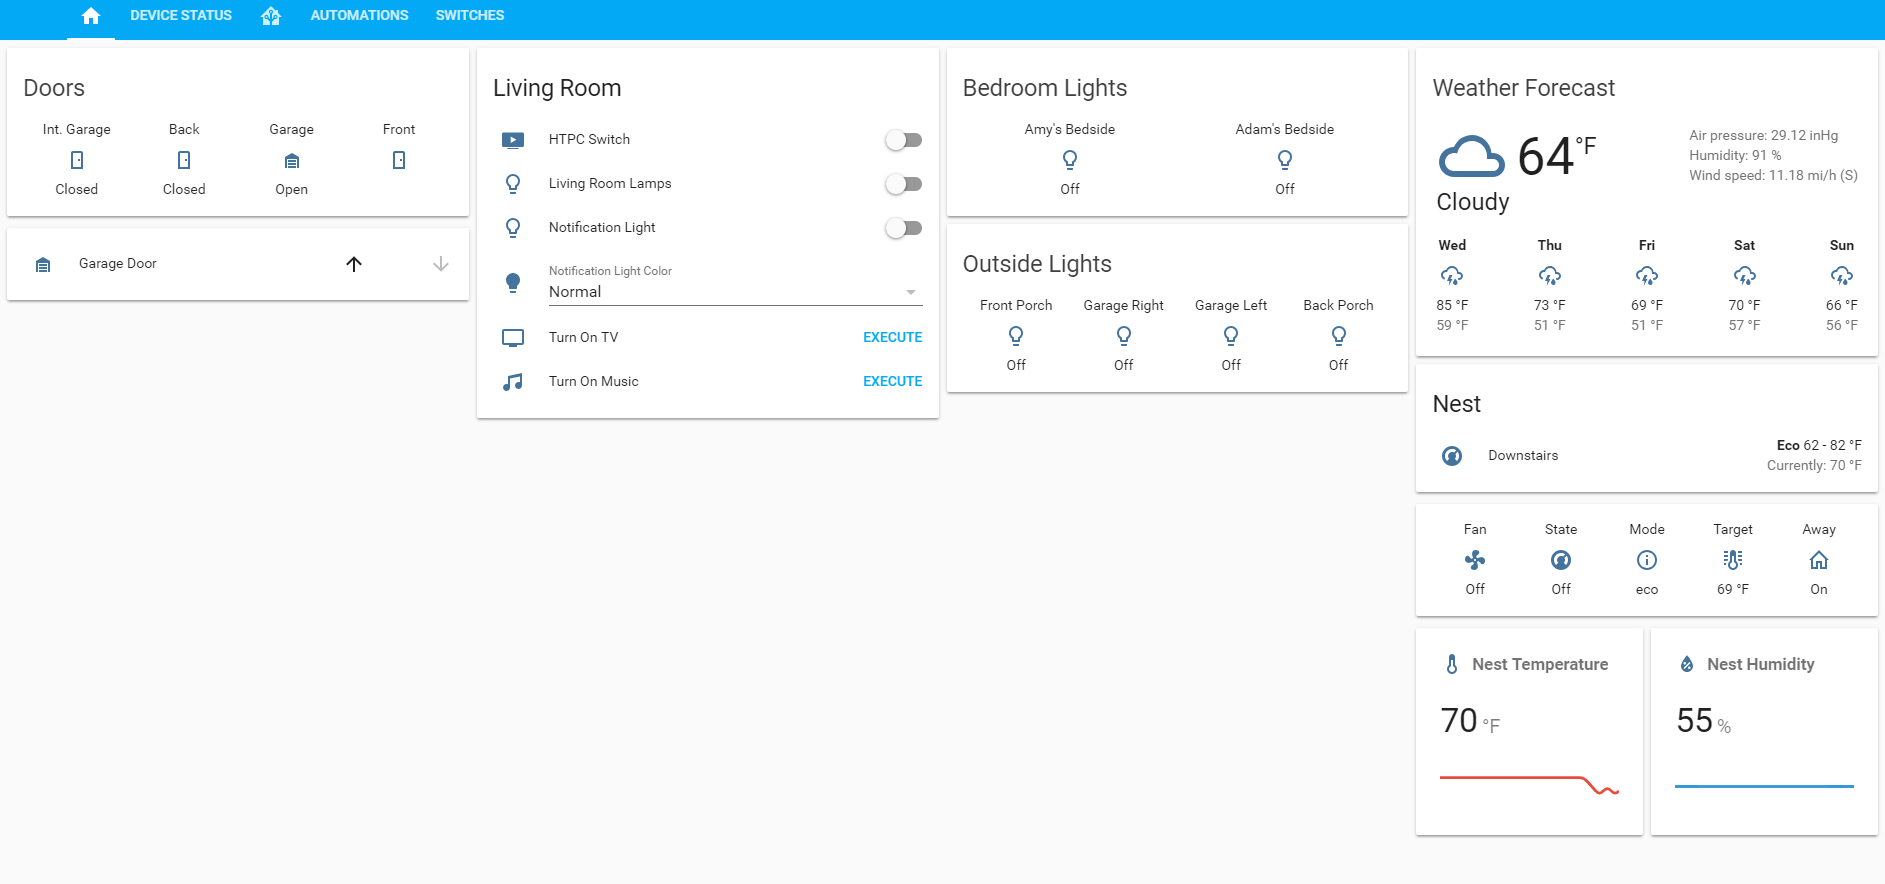
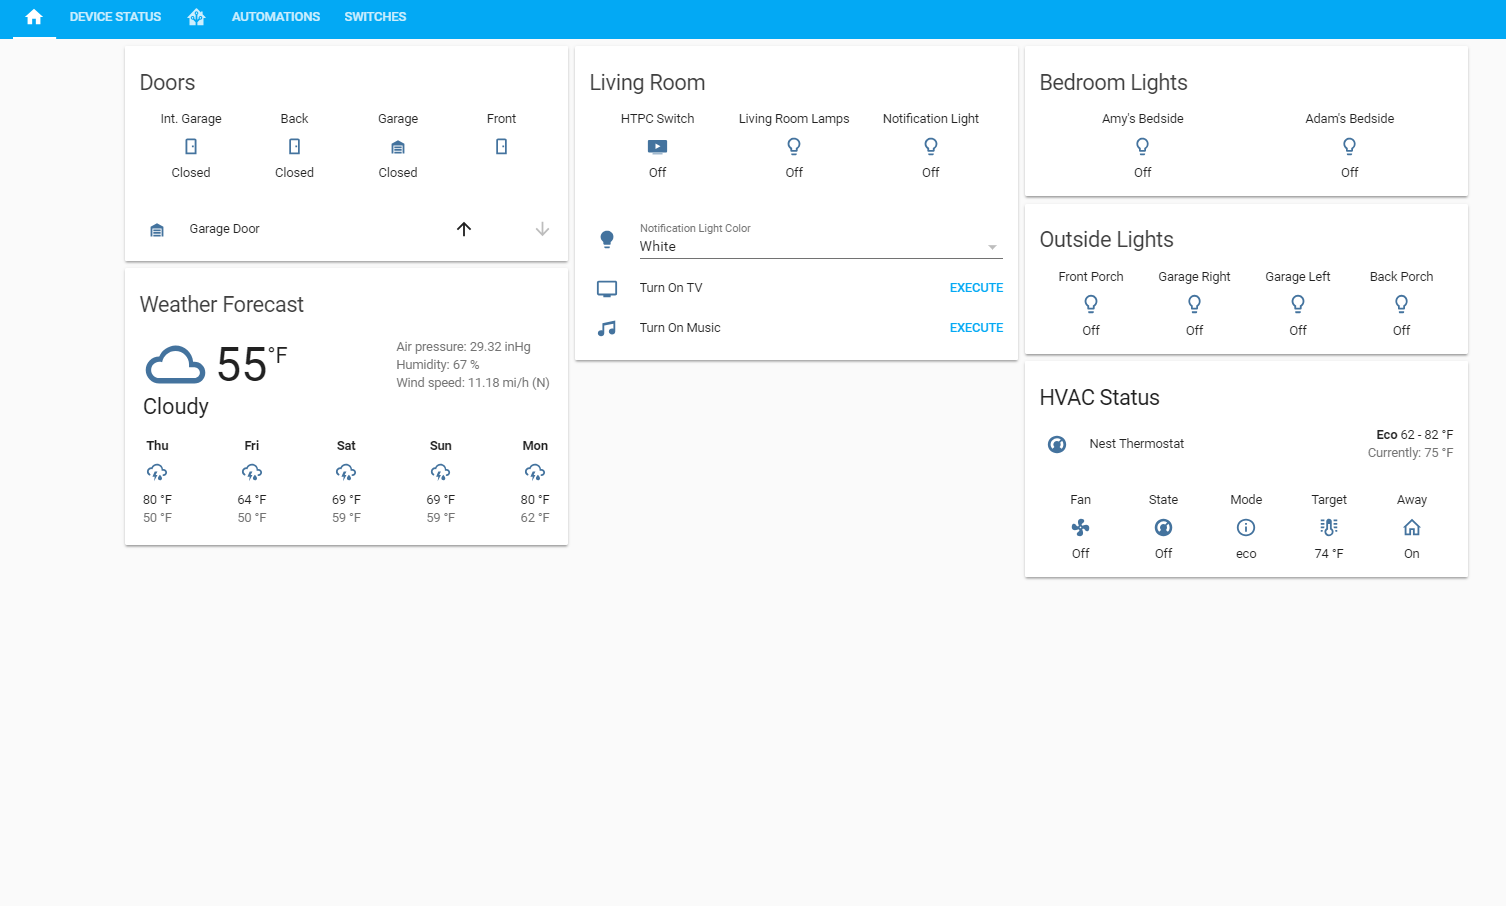
Ui tweaks (#77)
* Add files via upload

* Add files via upload

* Add files via upload

diff --git a/www/custom_ui/vertical-stack-in-card.js b/www/custom_ui/vertical-stack-in-card.js
@@ -1,0 +1,79 @@
+class VerticalStackInCard extends HTMLElement {
+    constructor() {
+        super();
+        // Make use of shadowRoot to avoid conflicts when reusing
+        this.attachShadow({ mode: 'open' });
+    }
+    setConfig(config) {
+        if (!config || !config.cards || !Array.isArray(config.cards)) {
+            throw new Error('Card config incorrect');
+        }
+
+        this.style.boxShadow = "0 2px 2px 0 rgba(0, 0, 0, 0.14), 0 1px 5px 0 rgba(0, 0, 0, 0.12), 0 3px 1px -2px rgba(0, 0, 0, 0.15)";
+        this.style.borderRadius = "2px";
+        this.style.background = "var(--paper-card-background-color)";
+
+        const root = this.shadowRoot;
+        while (root.lastChild) {
+            root.removeChild(root.lastChild);
+        }
+
+        this._refCards = [];
+        if (config.title) {
+            const title = document.createElement("div");
+            title.className = "header";
+            title.style = "font-family: var(--paper-font-headline_-_font-family); -webkit-font-smoothing: var(--paper-font-headline_-_-webkit-font-smoothing); font-size: var(--paper-font-headline_-_font-size); font-weight: var(--paper-font-headline_-_font-weight); letter-spacing: var(--paper-font-headline_-_letter-spacing); line-height: var(--paper-font-headline_-_line-height);text-rendering: var(--paper-font-common-expensive-kerning_-_text-rendering);opacity: var(--dark-primary-opacity);padding: 24px 16px 0px 16px";
+            title.innerHTML = '<div class="name">' + config.title + '</div>';
+            root.appendChild(title);
+        }
+        let element;
+        config.cards.forEach(item => {
+            if (item.type.startsWith("custom:")){
+                element = document.createElement(`${item.type.substr("custom:".length)}`);
+            } else {
+                element = document.createElement(`hui-${item.type}-card`);
+            }
+            element.setConfig(item);
+            root.appendChild(element);
+            this._refCards.push(element);
+        });
+    }
+
+    set hass(hass) {
+        if (this._refCards) {
+            this._refCards.forEach((card) => {
+                card.hass = hass;
+            });
+        }
+    }
+
+    connectedCallback() {
+        this._refCards.forEach((element) => {
+            if (element.shadowRoot) {
+                if (!element.shadowRoot.querySelector('ha-card')) {
+                    let searchEles = element.shadowRoot.getElementById("root");
+                    if (!searchEles) {
+                        searchEles = element.shadowRoot.getElementById("card");
+                    }
+                    searchEles = searchEles.childNodes;
+                    for(let i = 0; i < searchEles.length; i++) {
+                        searchEles[i].style.margin = "0px";
+                        searchEles[i].shadowRoot.querySelector('ha-card').style.boxShadow = 'none';
+                    }
+                } else {
+                    element.shadowRoot.querySelector('ha-card').style.boxShadow = 'none';
+                }
+            }
+        });
+    }
+
+    getCardSize() {
+        let totalSize = 0;
+        this._refCards.forEach((element) => {
+            totalSize += typeof element.getCardSize === 'function' ? element.getCardSize() : 1;
+        });
+        return totalSize;
+    }
+}
+
+customElements.define('vertical-stack-in-card', VerticalStackInCard);
